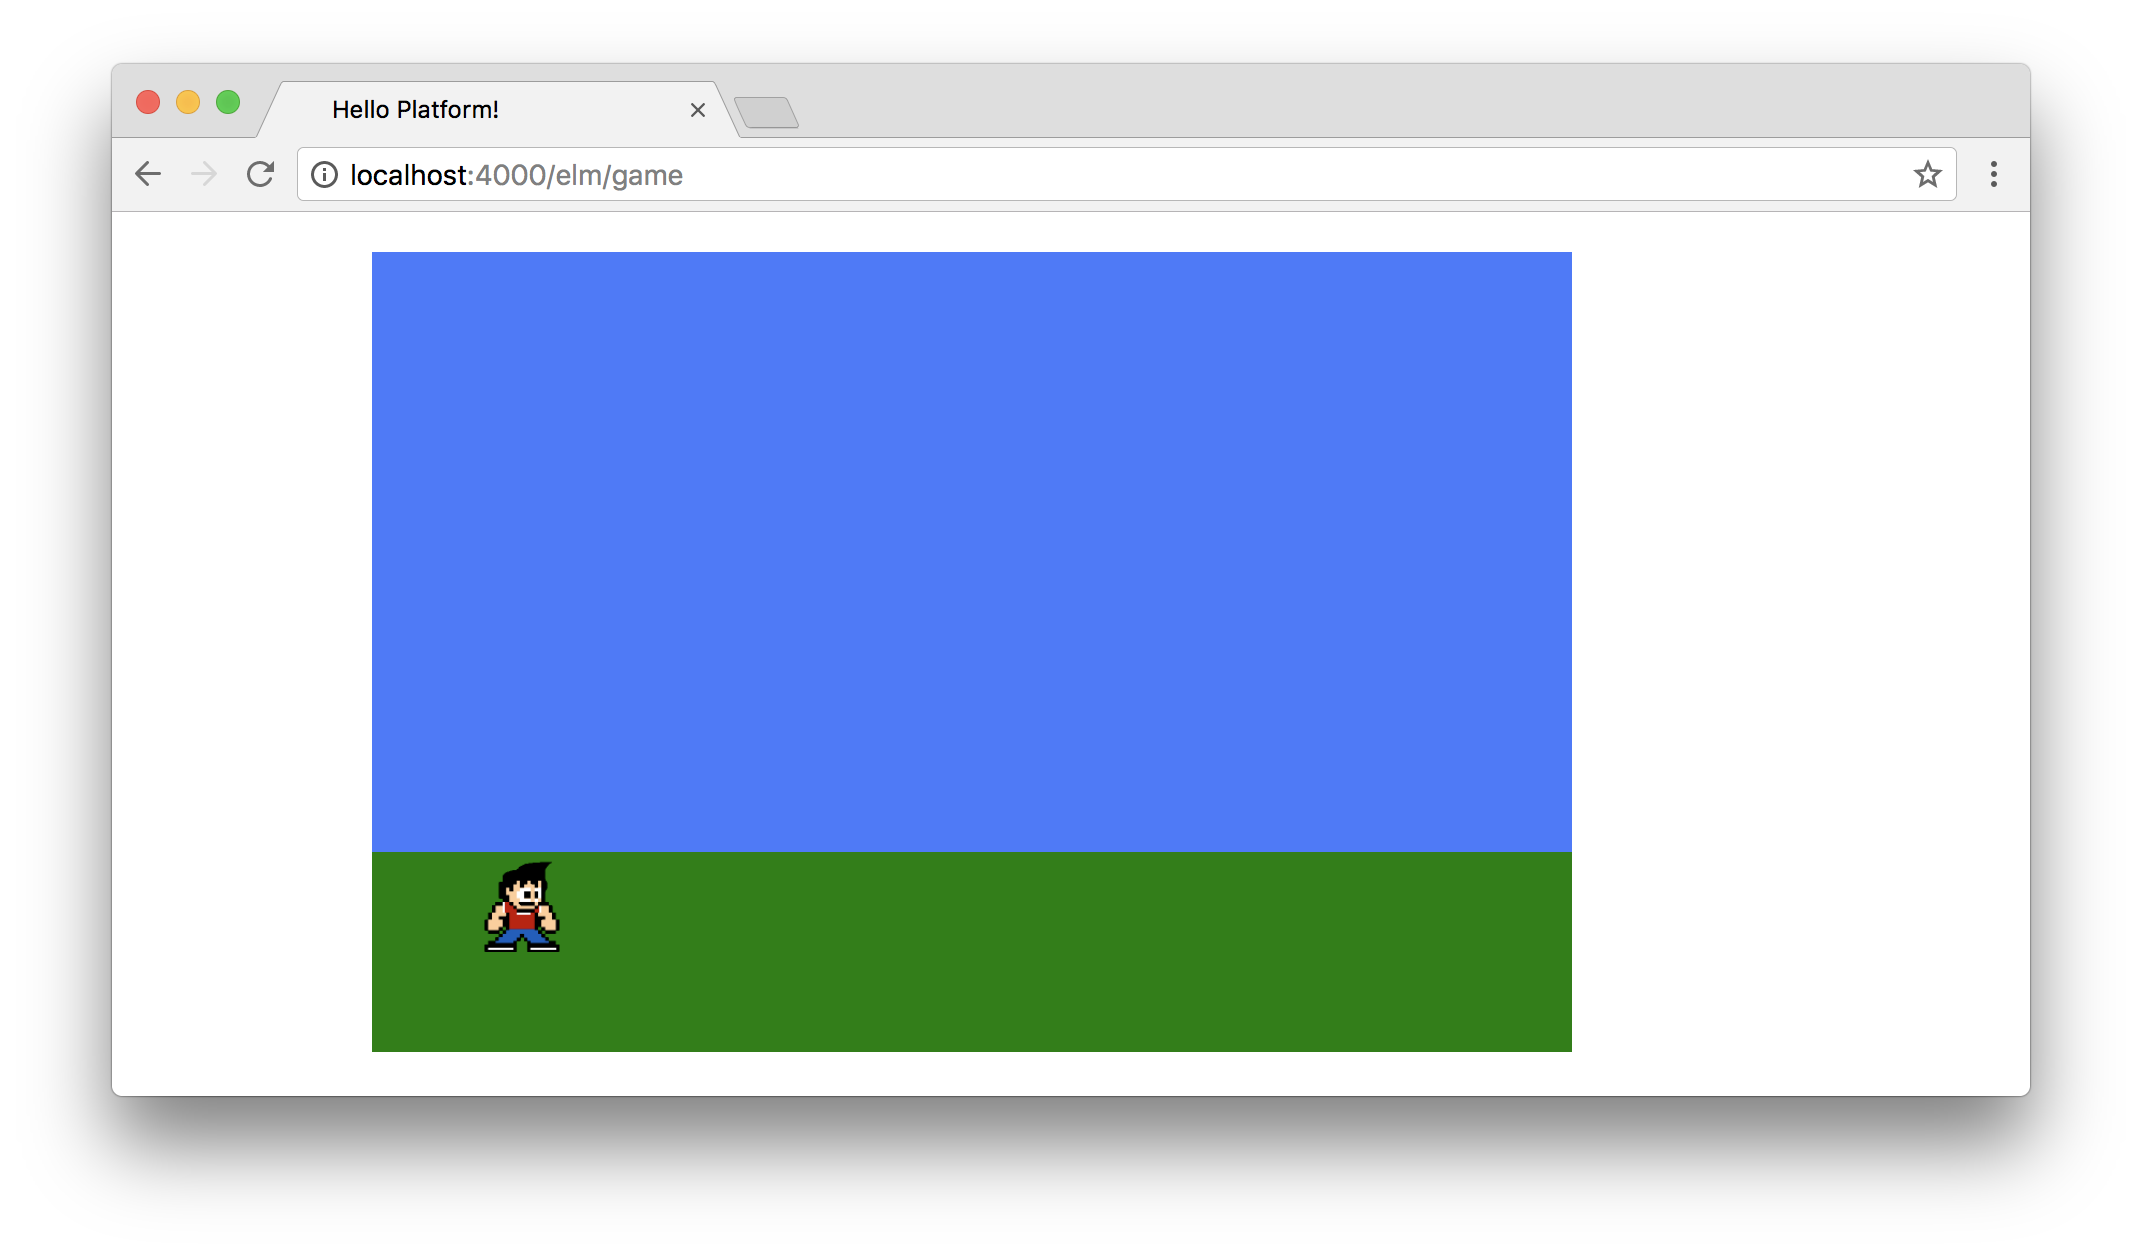
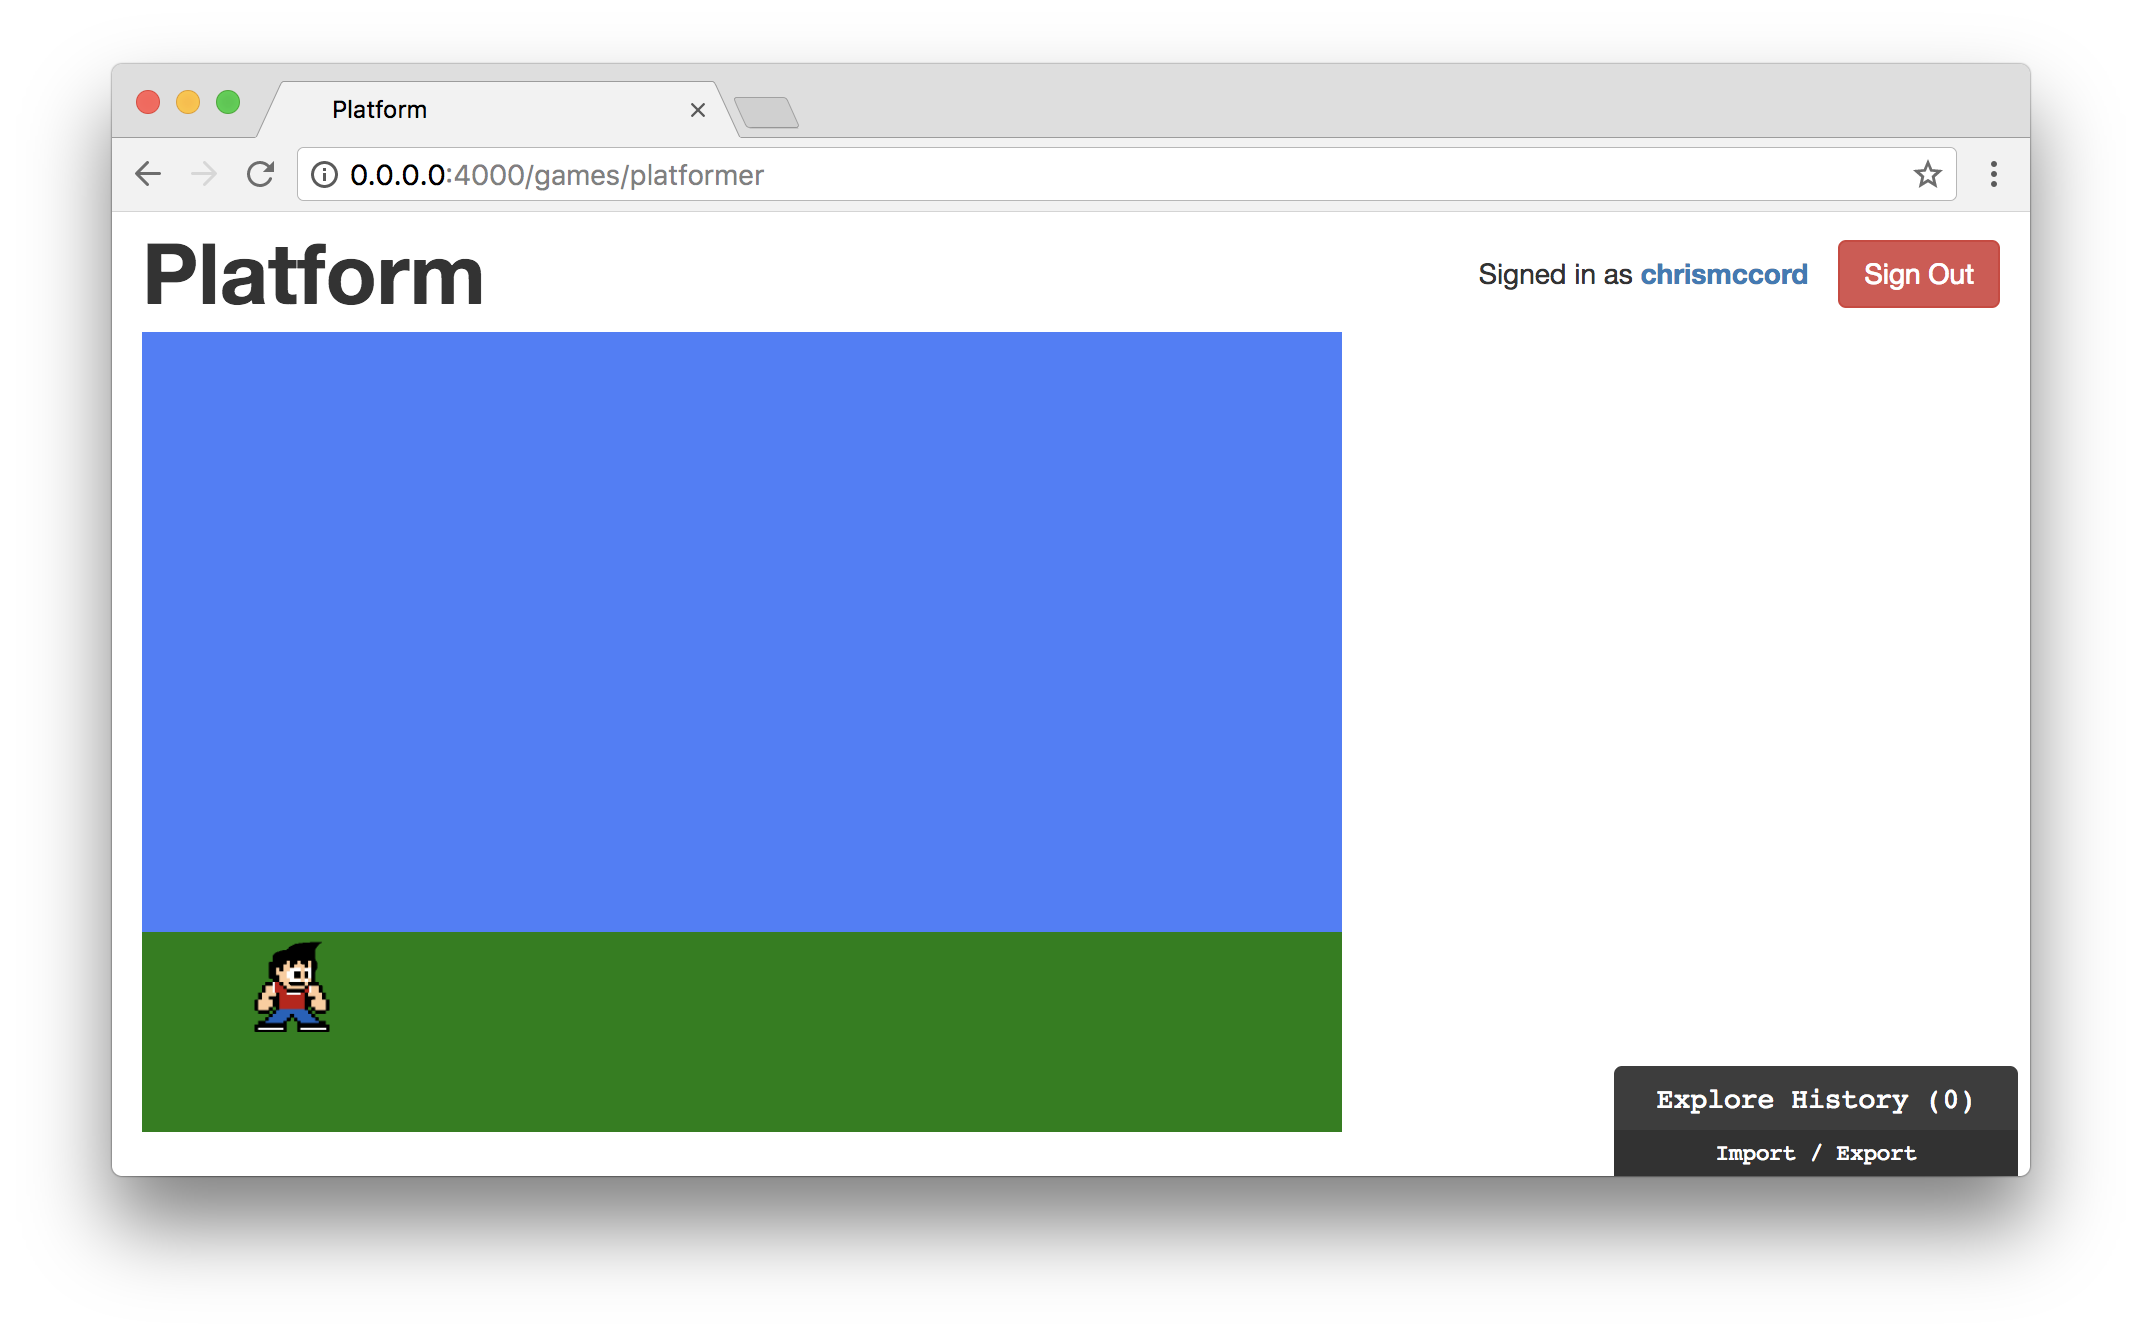
Our First Game rewrites and screenshot updates

diff --git a/manuscript/our_first_game.md b/manuscript/our_first_game.md
@@ -451,7 +451,7 @@ initialModel =
     }
 ```
 
-Now we'll have to pass our model through the view functions so we can access
+Now, we'll have to pass our model through the view functions so we can access
 those values in the right places. Our `view` function already takes `model`
 as an argument, so we can pass that along to the `viewGame` function like this:
 
@@ -499,8 +499,8 @@ viewCharacter model =
 ```
 
 At this point, we have working data from the model that's being rendered to the
-view. Let's move our character to the right on the screen by increasing the
-`characterPositionX` value to `50` in the `initialModel`:
+view. Let's move our character slightly to the right on the screen by
+increasing the `characterPositionX` value to `50` in the `initialModel`:
 
 ```elm
 initialModel : Model
@@ -522,7 +522,7 @@ We're going to follow many of the same steps we did for our character image, so
 we'll move quickly in this section. First, let's add a `coin.svg` image to our
 project to use as our item.
 
-The `coin.svg` asset we'll be using here is
+The `coin.svg` asset we'll be using is
 [available in the GitHub repository](https://github.com/elixir-elm-tutorial/elixir-elm-tutorial-book/tree/master/manuscript/images/our_first_game/coin.svg)
 for this book.
 
@@ -550,8 +550,8 @@ initialModel =
     }
 ```
 
-Then, we can update our `view` function and create a new `viewItem` function
-that takes in a `model` argument and returns some SVG code to render:
+Then, we can update our `viewGame` function and create a new `viewItem`
+function that takes in a `model` argument and returns some SVG code to render:
 
 ```elm
 viewGame : Model -> Svg Msg
@@ -563,7 +563,13 @@ viewGame model =
         , viewCharacter model
         , viewItem model
         ]
+```
 
+Keep in mind that the order of our view functions doesn't matter, but it's
+still a good idea to group similar functions. Add the following below the
+`viewCharacter` function:
+
+```elm
 viewItem : Model -> Svg Msg
 viewItem model =
     image
@@ -587,9 +593,9 @@ This is what our results should look like so far:
 
 ## Summary
 
-We managed to accomplish _a lot_ in this chapter. We created a space for our
+We managed to accomplish a lot in this chapter. We created a space for our
 first game, set up an initial SVG game world, added a character, and added an
 item. But keep in mind that we've been hard-coding a lot of values in our quest
 to get something up and running. In the next chapter, we'll be taking a look at
-Elm subscriptions as a way to handle keyboard input and adding interaction to
-our game.
+Elm subscriptions as a way to handle keyboard input and add interaction to our
+game.

diff --git a/manuscript/todo.md b/manuscript/todo.md
@@ -36,4 +36,5 @@
 
 ## Chores
 
+- [ ] Global search for "statement" and consider switching to "expression".
 - [ ] Run `mix hex.outdated` and verify that content still works with latest.
